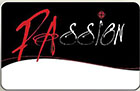
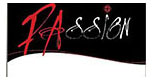
aligned the images

diff --git a/payment.html b/payment.html
@@ -72,7 +72,7 @@
     <div class="thumbnail">
       <img src="images/passion.jpg">
       <div class="caption">
-        <h3>Passion Card</h3>
+        <h4>Passion Card</h4>
         <p> 10% off total bill</p>
           <p id="passionPrice"></p>
         <p><a href="#collapseTwo" aria-controls="collapseTwo" data-parent="#accordion" aria-expanded="false" aria-controls="scan" data-toggle="collapse" class="btn btn-primary" role="button">Select</a></p>
@@ -80,7 +80,7 @@
     </div>
   </div>
         
-        <div class="col-sm-4 col-md-2">
+        <div class="col-sm-6 col-md-4">
       <div class="caption">
         <h4>None</h4>
         <p> Proceed to Payment</p>
